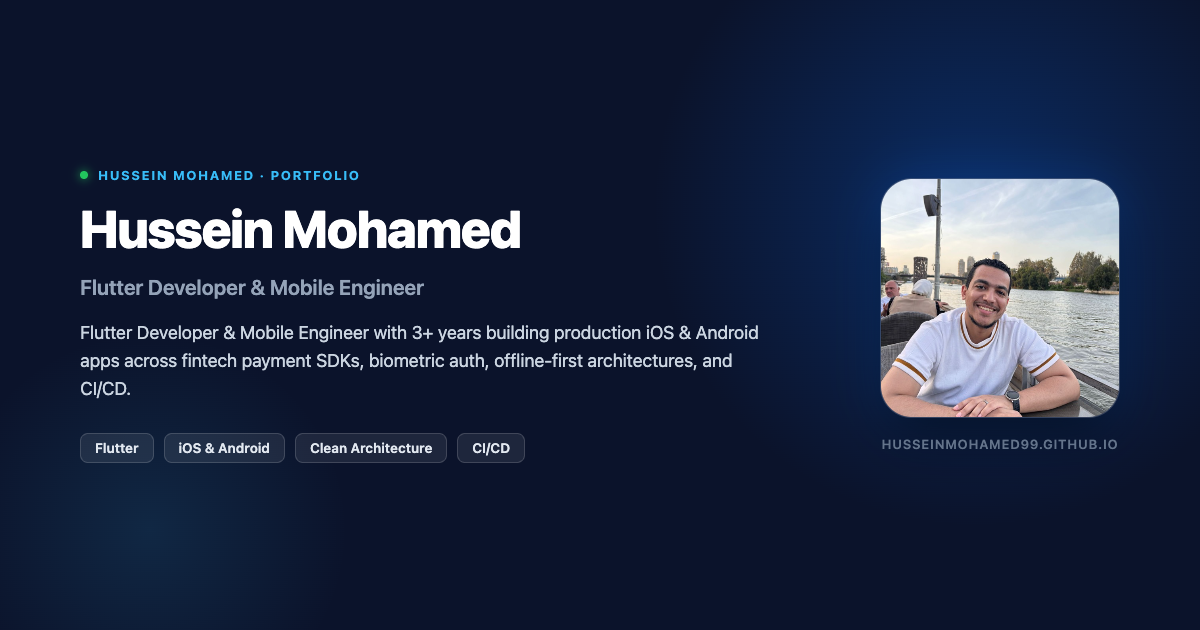
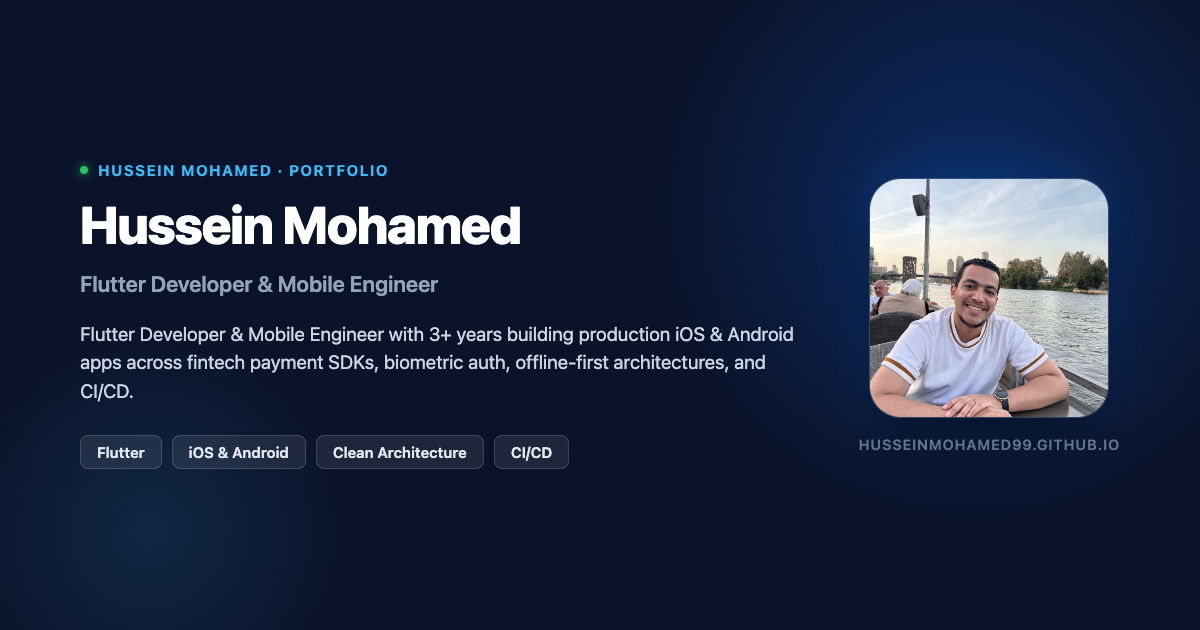
feat(seo): enhance social card typography scale and Arabic font support
Scale badge, tag, and watermark font sizes for legibility at 300px social
feed card widths. Add Noto Naskh Arabic font stack to ensure correct Arabic
glyph rendering across bilingual project titles.

diff --git a/scripts/generate-social-cards.js b/scripts/generate-social-cards.js
@@ -42,7 +42,7 @@ function generateHtml({ title, subtitle, desc, tags, imagePath, isPhoto = false 
     height: 630px;
     background: #0B132B;
     color: #F8FAFC;
-    font-family: -apple-system, BlinkMacSystemFont, "Segoe UI", Roboto, "Helvetica Neue", sans-serif;
+    font-family: 'Noto Naskh Arabic', -apple-system, BlinkMacSystemFont, "Segoe UI", Roboto, "Helvetica Neue", sans-serif;
     display: flex;
     align-items: center;
     justify-content: space-between;
@@ -71,7 +71,7 @@ function generateHtml({ title, subtitle, desc, tags, imagePath, isPhoto = false 
     pointer-events: none;
   }
   .content {
-    max-width: 680px;
+    max-width: 720px;
     z-index: 1;
     display: flex;
     flex-direction: column;
@@ -81,9 +81,9 @@ function generateHtml({ title, subtitle, desc, tags, imagePath, isPhoto = false 
     display: inline-flex;
     align-items: center;
     gap: 10px;
-    font-size: 13px;
+    font-size: 15px;
     font-weight: 700;
-    letter-spacing: 0.12em;
+    letter-spacing: 0.1em;
     text-transform: uppercase;
     color: #38BDF8;
   }
@@ -102,13 +102,14 @@ function generateHtml({ title, subtitle, desc, tags, imagePath, isPhoto = false 
     letter-spacing: -0.02em;
   }
   .subtitle {
-    font-size: 21px;
+    font-size: 22px;
     font-weight: 600;
+    line-height: 1.35;
     color: #94A3B8;
   }
   .desc {
-    font-size: 18px;
-    line-height: 1.55;
+    font-size: 19px;
+    line-height: 1.5;
     color: #CBD5E1;
     display: -webkit-box;
     -webkit-line-clamp: 3;
@@ -130,9 +131,9 @@ function generateHtml({ title, subtitle, desc, tags, imagePath, isPhoto = false 
   .tag {
     background: rgba(255, 255, 255, 0.08);
     border: 1px solid rgba(255, 255, 255, 0.15);
-    padding: 6px 14px;
+    padding: 7px 16px;
     border-radius: 8px;
-    font-size: 13.5px;
+    font-size: 15px;
     font-weight: 600;
     color: #E2E8F0;
   }
@@ -163,7 +164,7 @@ function generateHtml({ title, subtitle, desc, tags, imagePath, isPhoto = false 
   }
   .watermark {
     margin-top: 18px;
-    font-size: 13px;
+    font-size: 14.5px;
     font-weight: 600;
     letter-spacing: 0.06em;
     color: #64748B;
